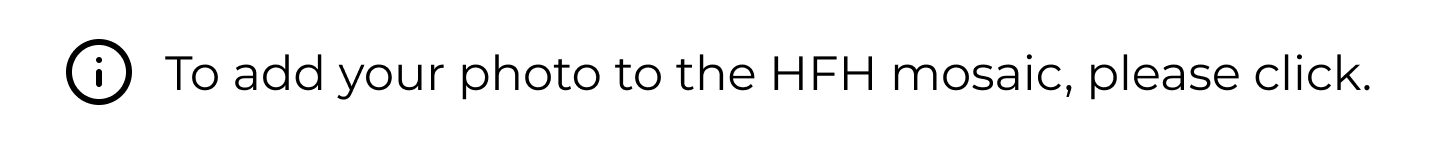
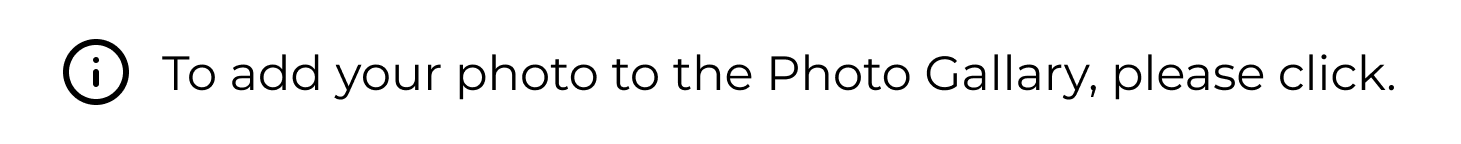
updated new release
changes updated
1. remove logo
2. powered by changed to organised by
3. mosaic changed to photo gallery

Changed region(s): [[0.0311, 0.2778, 0.9627, 0.7222]]

diff --git a/mosaic_latest/src/index.css b/mosaic_latest/src/index.css
@@ -14,6 +14,8 @@ body {
   transition: 0.3s;
   transition-delay: 0s;
   min-height: 100vh;
+  padding-top: 4rem !important;
+
 }
 * {
   transition-timing-function: cubic-bezier(0.69, -0.07, 0.17, 1.35) !important;
@@ -43,7 +45,6 @@ footer {
   width: 260px;
 } */
 .grid-img-wrapper {
-  margin-top: 4rem !important;
   display: grid;
   gap: 0;
   grid-template-columns: repeat(14, 1fr);
@@ -54,7 +55,7 @@ footer {
   margin-top: 1rem;
   height: 400px;
   position: relative;
-  background-image: url("./logo.jpeg");
+  /*background-image: url("./logo.jpeg");*/
   background-size: contain;
   background-position: center;
   background-repeat: no-repeat;
